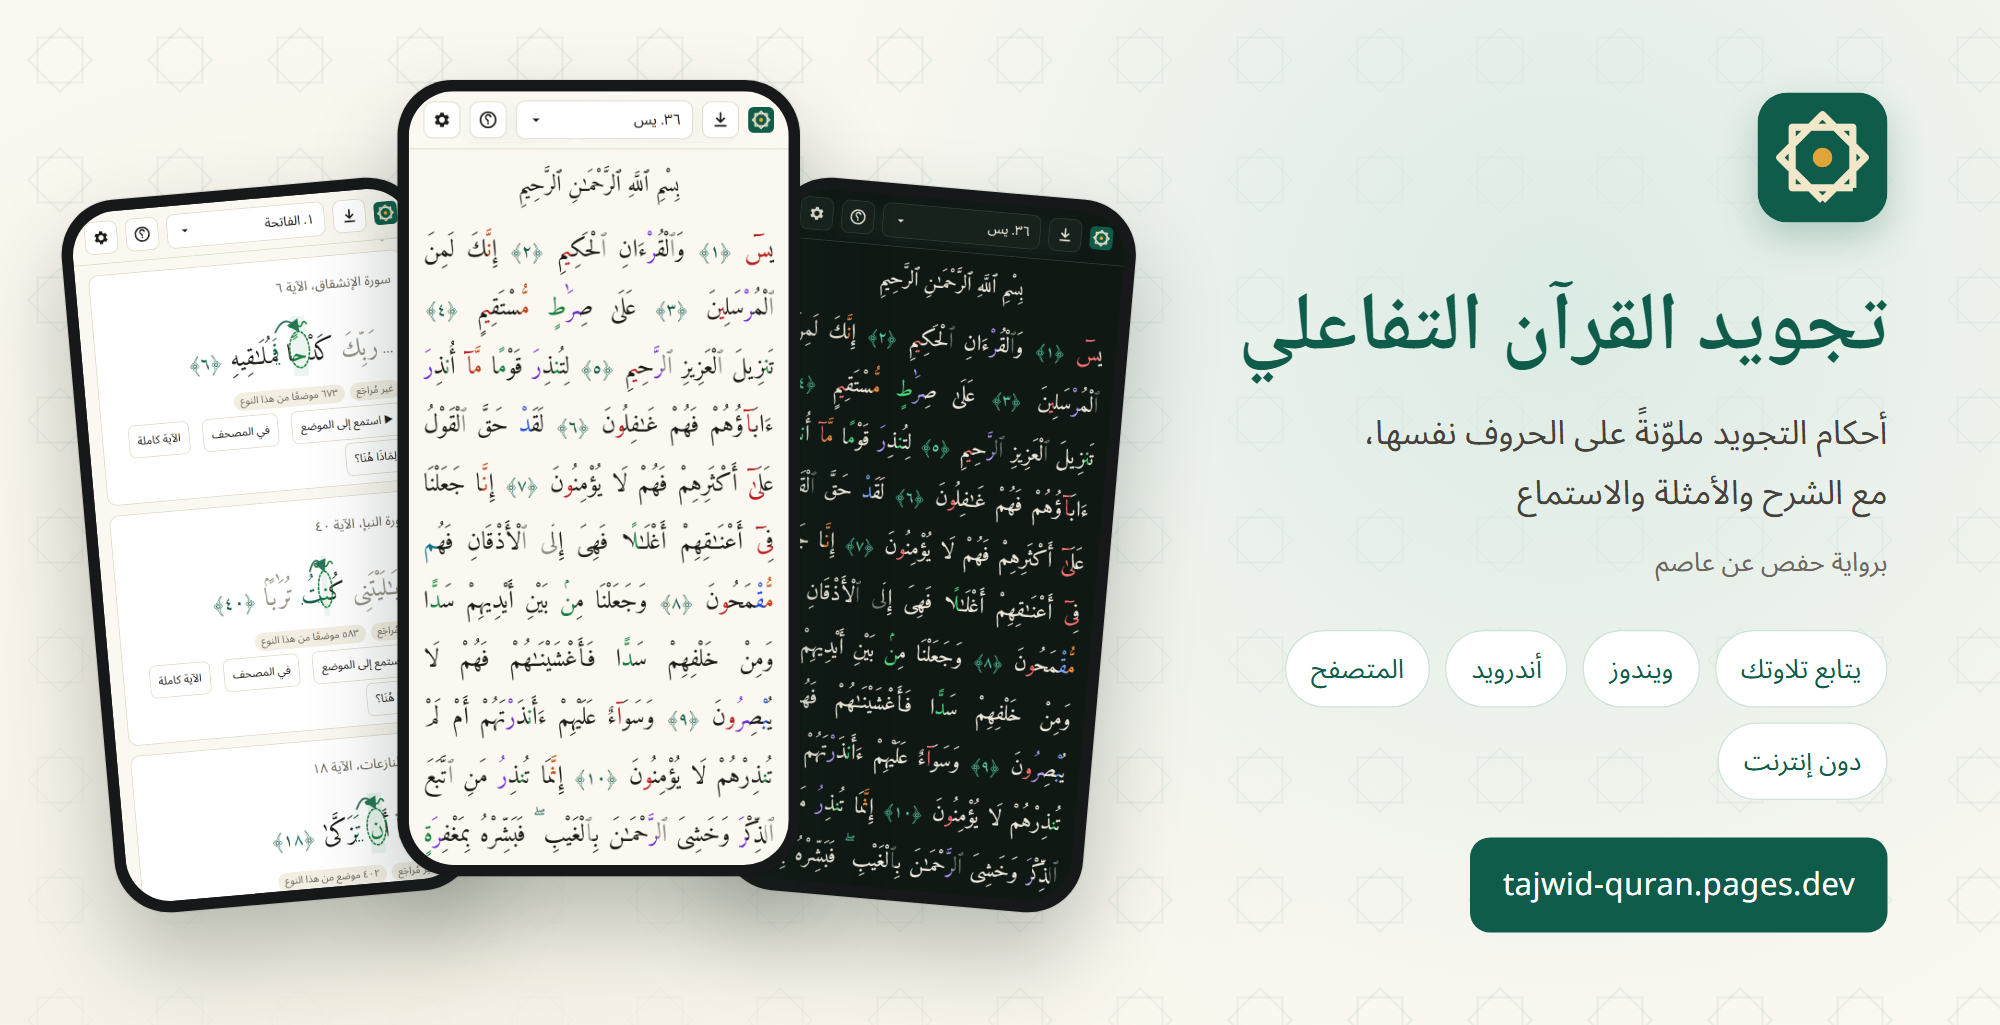
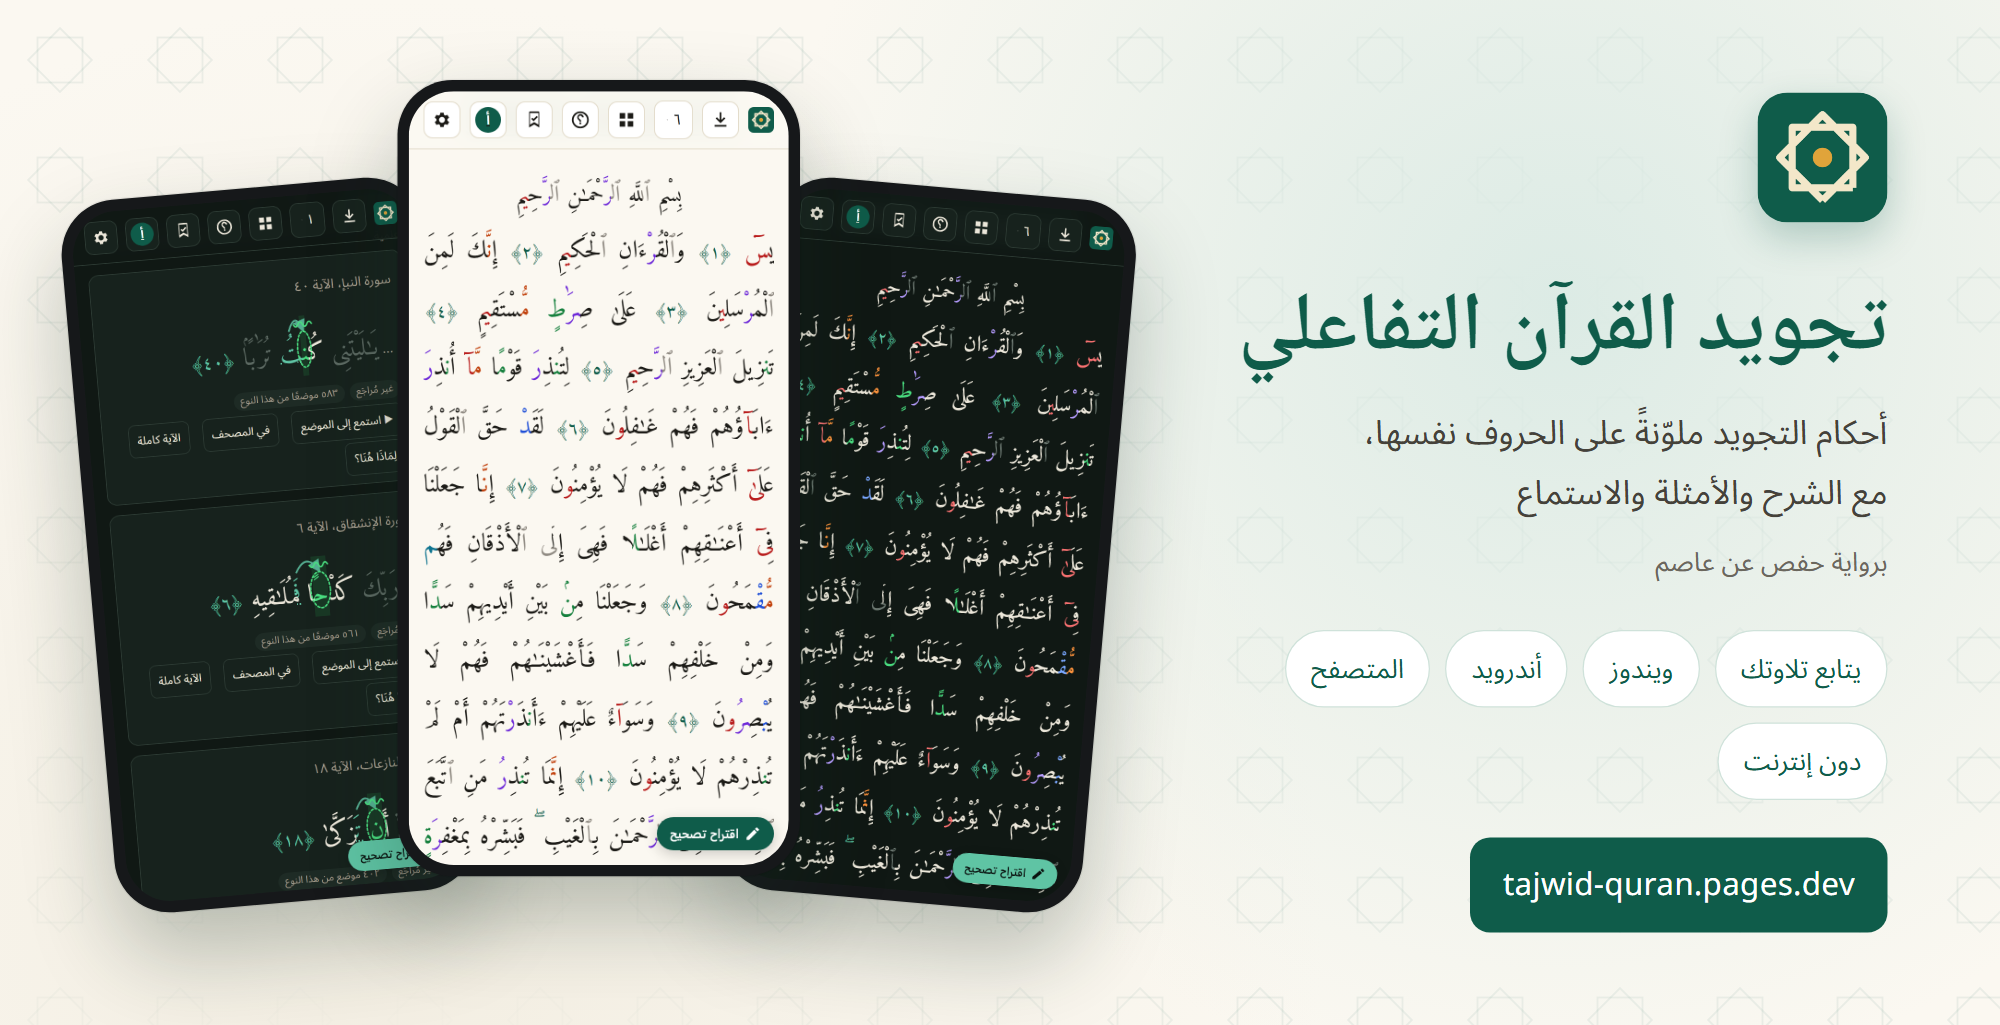
README 0.4.0: Tajwīd beim Anhören, Qibla, dunkler Standard; Bilder neu

diff --git a/README.md b/README.md
@@ -20,9 +20,10 @@
 - 🔎 **إبراز أحكام مختارة** — اختر حكمًا أو أكثر، فيُبرَز في النص وحده، وتنقّل من موضع إلى موضع.
 - 📚 **أمثلة لكل حكم** — أمثلة متنوعة مختارة، وجميع المواضع في السورة أو الجزء أو القرآن كله.
 - 🎙 **يتابع تلاوتك** — اقرأ من حفظك أو من المصحف، من أي سورة: يجد التطبيق موضعك، ويُبرز الكلمة التي تقرؤها، ويمرّر النص معك.
-- 🎧 **الاستماع** — إلى السورة أو الآية أو الكلمة أو الموضع نفسه، بصوت ١٧ قارئًا (الحصري افتراضيًا)، مع التكرار.
+- 🎧 **الاستماع** — إلى السورة أو الآية أو الكلمة أو الموضع نفسه، بصوت ١٧ قارئًا (الحصري افتراضيًا)، مع التكرار؛ وتظهر أحكام الكلمة المتلوّة وعلاماتها على حروفها تلقائيًّا أثناء الاستماع.
+- 🧭 **القبلة** — اتجاه القبلة بدقة من موقعك أو من إحداثيات تُدخلها، مع البوصلة على الجوال؛ يُحسب على جهازك، ولا يُحفظ الموقع ولا يُرسَل.
 - 📴 **دون إنترنت** — القرآن كاملًا في التطبيق؛ الصوت وحده يُحمَّل عند التشغيل.
-- 🌗 وضع فاتح وداكن · العربية وEnglish وDeutsch · مجاني، بلا إعلانات ولا تتبّع.
+- 🌗 الوضع الداكن افتراضيًّا، والفاتح أو حسب الجهاز · العربية وEnglish وDeutsch · مجاني، بلا إعلانات ولا تتبّع.
 
 </div>
 
@@ -95,9 +96,12 @@ and explains every place: which rule, why here, and how it sounds.
 - **Follows your recitation:** recite from memory or from the text, from any surah — the app finds your place,
   highlights the word you are at and scrolls along. No need to open the right surah first. The audio is processed
   on your device only; nothing is recorded or sent. It follows your place and does not judge your tajwīd.
-- Listen to a surah, ayah, word or the place itself (17 reciters, al-Ḥuṣarī by default), with repeat.
+- Listen to a surah, ayah, word or the place itself (17 reciters, al-Ḥuṣarī by default), with repeat; while you
+  listen, the rules of the word being recited and their signs appear on its letters.
+- **Qibla:** the exact direction from your location or from coordinates you enter, with a compass on phones —
+  computed on your device; the location is neither stored nor sent (on Windows: by entering coordinates).
 - The whole Qur'an works offline; only the audio is loaded when you play it.
-- Light and dark mode · Arabic, English, German · free, no ads, no tracking.
+- Dark by default, light or like the device · Arabic, English, German · free, no ads, no tracking.
 
 | Download | For |
 |---|---|
@@ -109,6 +113,7 @@ On the first start Windows may show “Windows protected your PC” because the 
 *More info → Run anyway*. The tajwīd places are generated automatically and not yet reviewed by scholars.
 
 This repository contains only the release files. Sources and licences — Tanzil Qur'an text, EveryAyah recordings,
-quran-align word timings, the Amiri Quran font, the Quran-Lab voice model (non-profit licence) — are credited on the
+quran-align word timings, the Amiri Quran font, the Quran-Lab voice model (non-profit licence), the World Magnetic
+Model (NOAA/BGS) — are credited on the
 website under
 [“البيانات القانونية”](https://tajwid-quran.pages.dev/#/legal).
